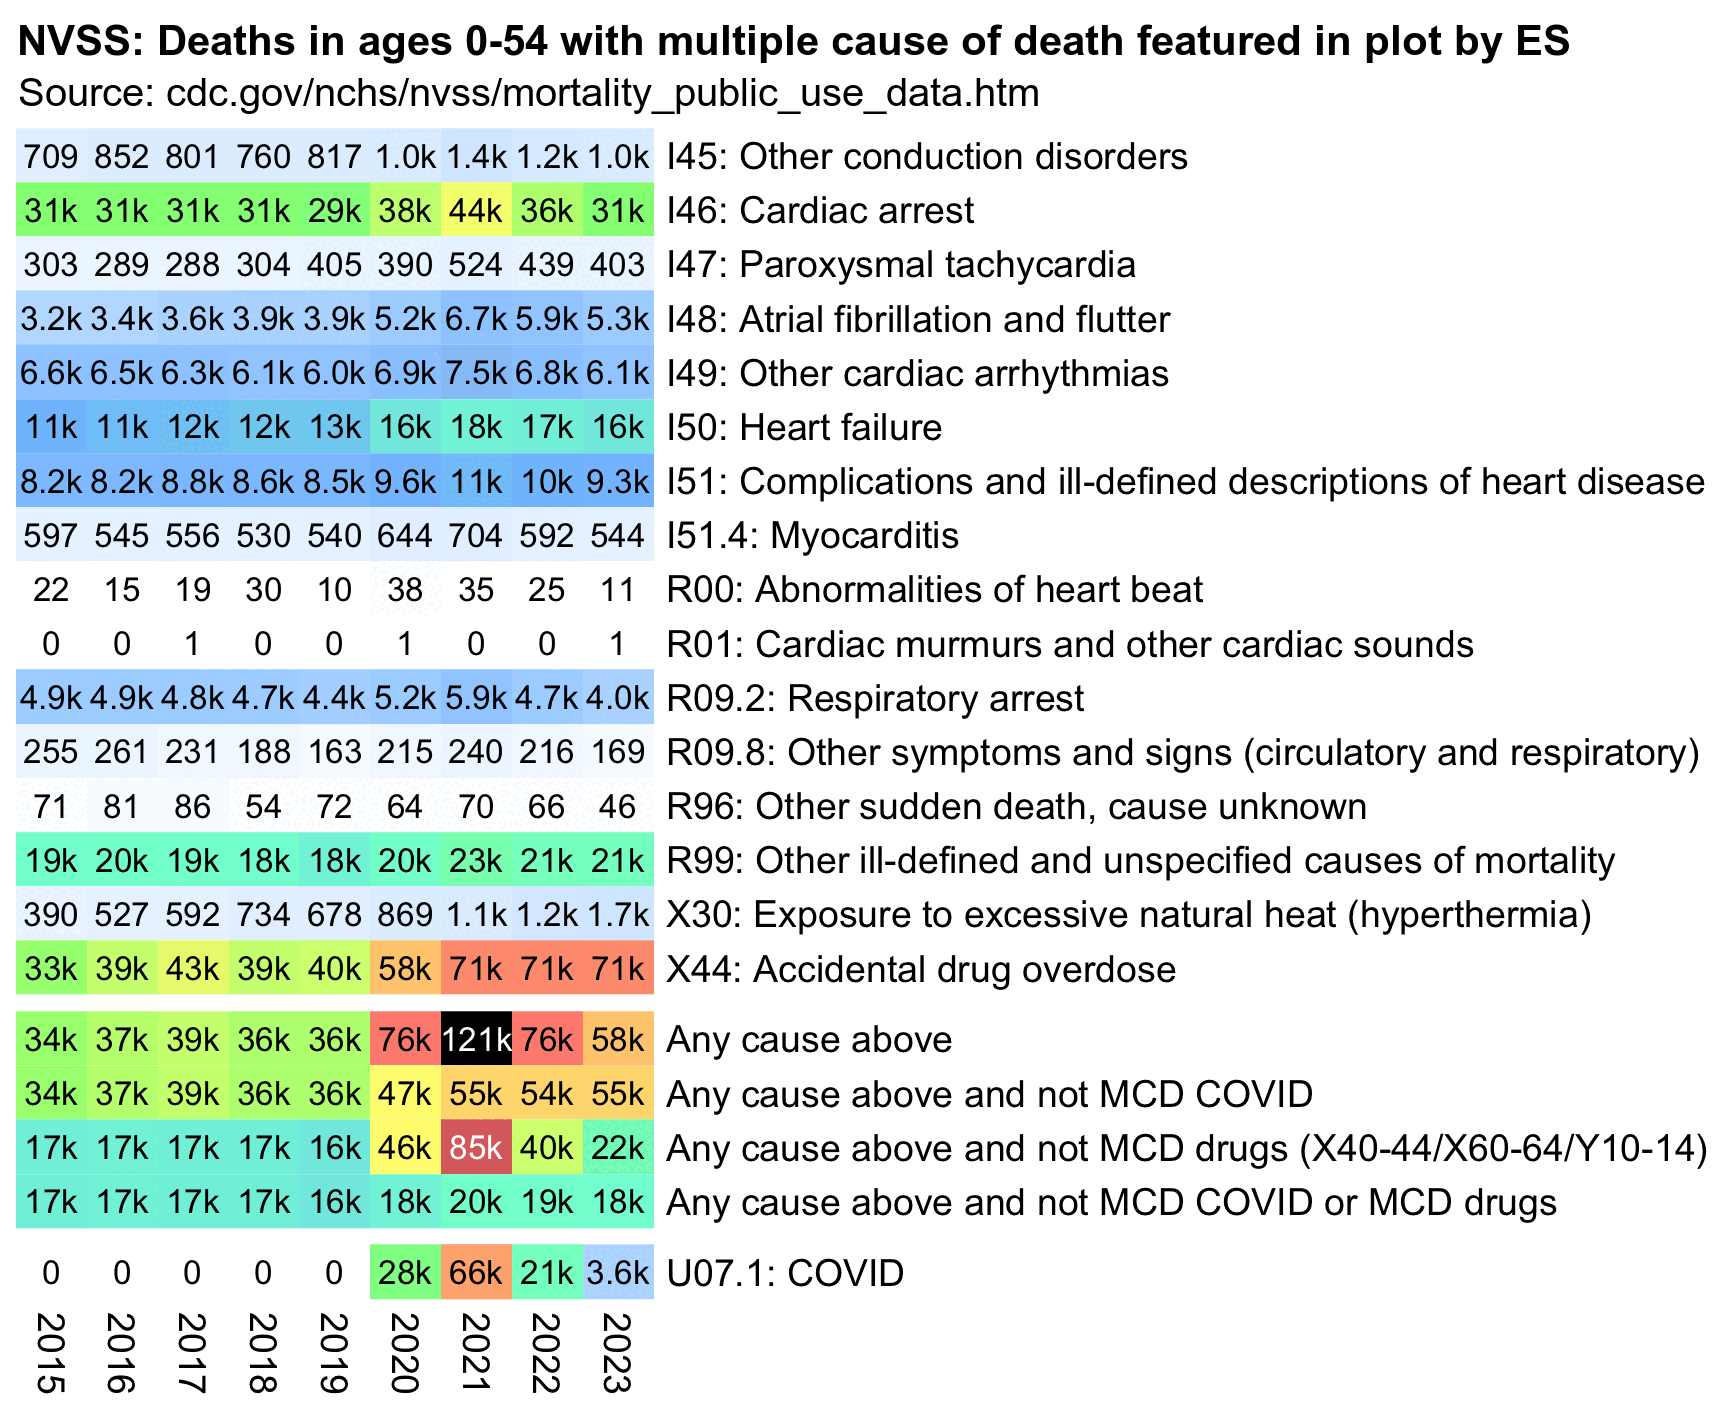
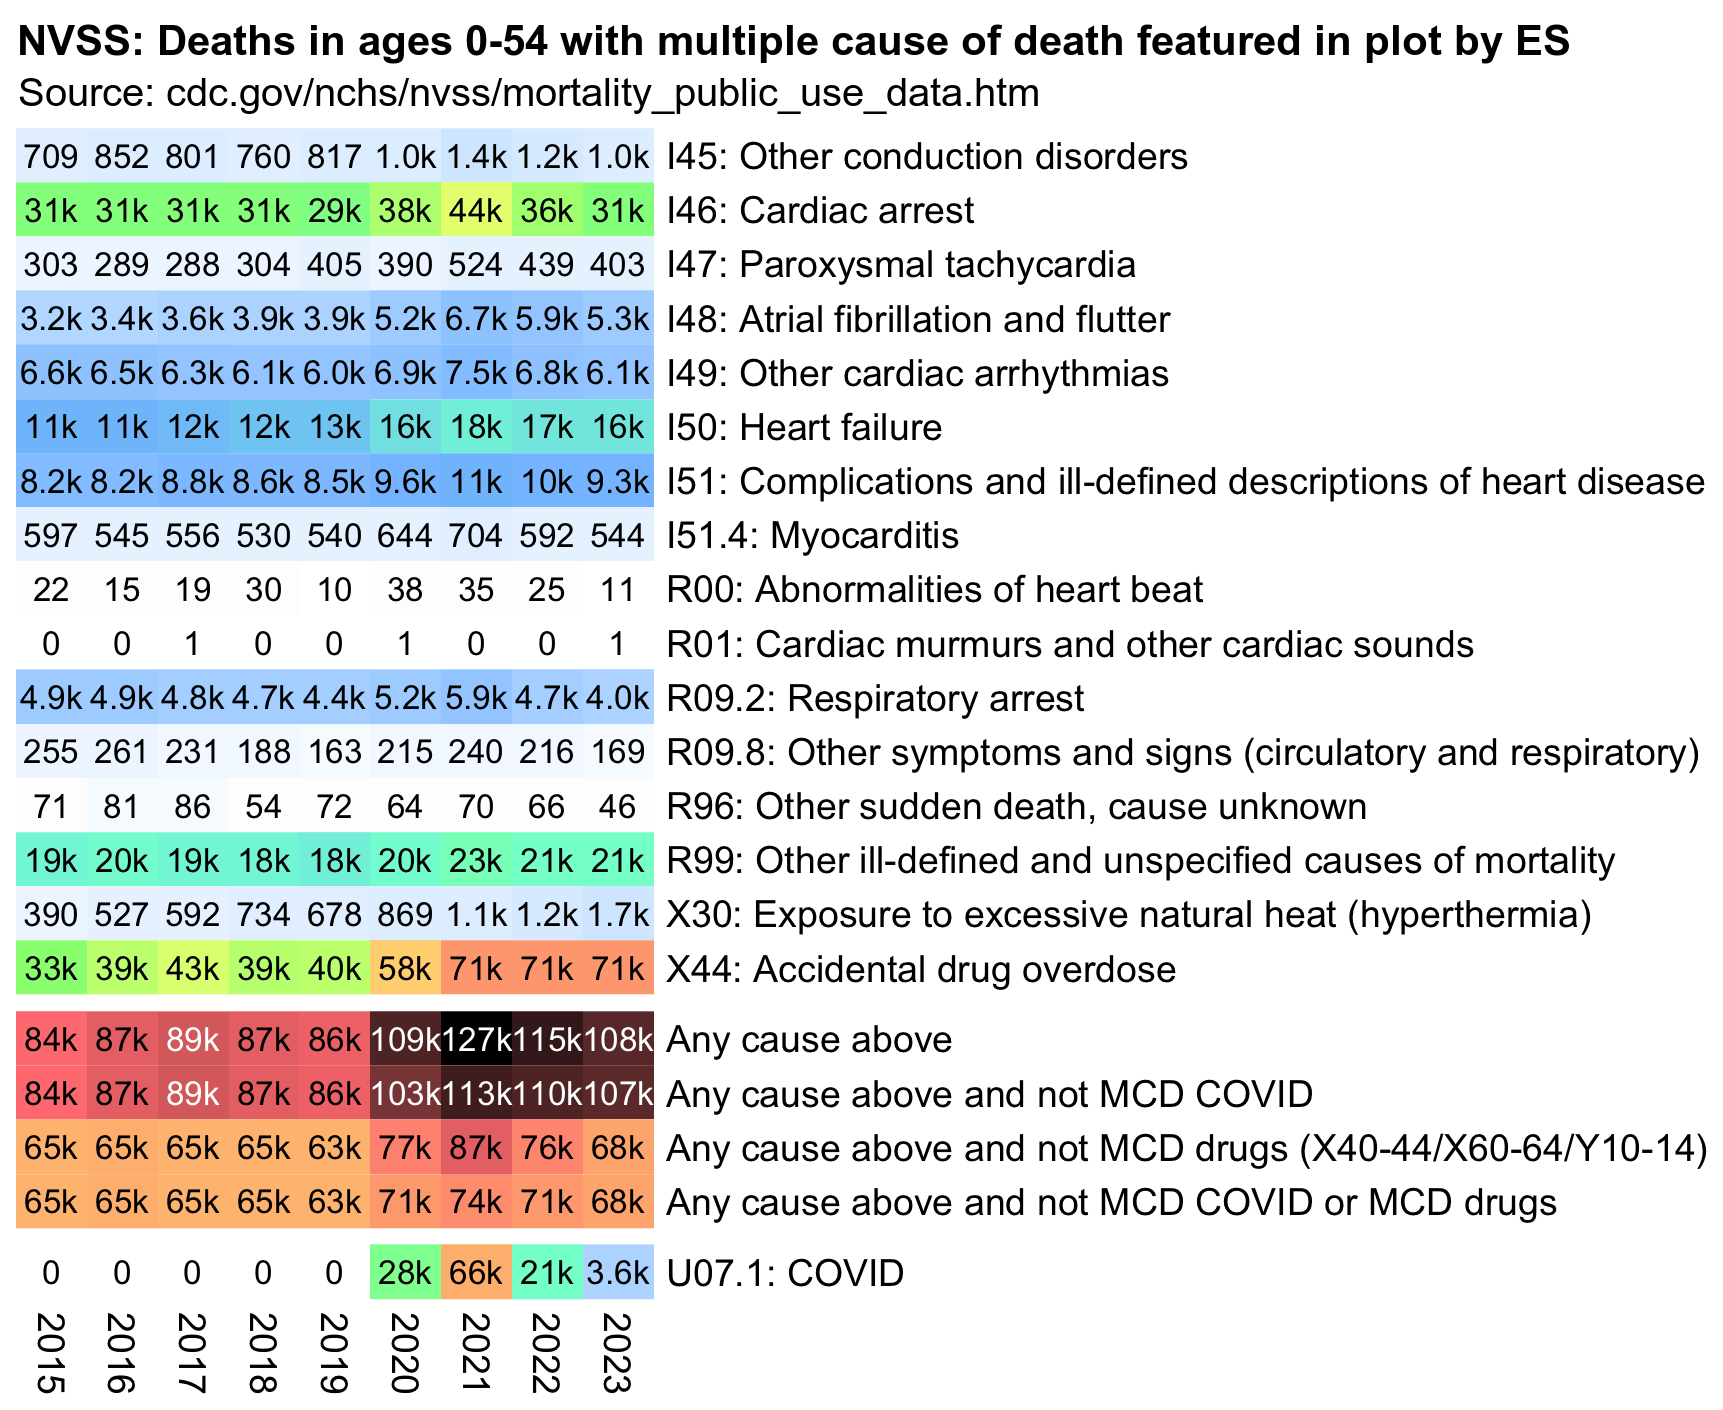
a

Changed region(s): [[0.0, 0.7177, 0.3999, 0.8738]]

diff --git a/ethical.html b/ethical.html
@@ -647,13 +647,13 @@ kimi=\(x){na=is.na(x);x[na]=0;e=floor(log10(ifelse(x==0,1,abs(x))));e2=pmax(e,0)
 vit=do.call(rbind,lapply(2015:2023,\(i)fread(j(i,&quot;.csv.gz&quot;))[age!=9999&amp;or(age&gt;=2000,age&lt;=1054)]))
 l=vit[,.(.I,year,code=unlist(.SD,,F)),.SDcols=patterns(&quot;ucod|enicon_&quot;)][code!=&quot;&quot;]
 
-codes=sub(&quot;\\.&quot;,&quot;&quot;,rbind(pick,pick4)$code)
+codes=paste(sub(&quot;\\.&quot;,&quot;&quot;,rbind(pick,pick4[code!=&quot;U07.1&quot;])$code),collapse=&quot;|&quot;)
 
-any=l[code%in%codes]
-a2=any[,.(dead=length(unique(I)),label=&quot;Any cause above&quot;),year]
-a3=any[!I%in%I[code==&quot;U071&quot;],.(dead=n_distinct(I),label=&quot;Any cause above and not MCD COVID&quot;),year]
-a4=any[!I%in%I[code%like%&quot;X4[0-4]|X6[0-4]|Y1[0-4]&quot;],.(dead=n_distinct(I),label=&quot;Any cause above and not MCD drugs (X40-44/X60-64/Y10-14)&quot;),year]
-a5=any[!I%in%I[code%like%&quot;X4[0-4]|X6[0-4]|Y1[0-4]|U071&quot;],.(dead=n_distinct(I),label=&quot;Any cause above and not MCD COVID or MCD drugs&quot;),year]
+any=l[I%in%l[ua(code,like,codes),I]]
+a2=any[,.(dead=uniqueN(I),label=&quot;Any cause above&quot;),year]
+a3=any[!I%in%I[code==&quot;U071&quot;],.(dead=uniqueN(I),label=&quot;Any cause above and not MCD COVID&quot;),year]
+a4=any[!I%in%I[code%like%&quot;X4[0-4]|X6[0-4]|Y1[0-4]&quot;],.(dead=uniqueN(I),label=&quot;Any cause above and not MCD drugs (X40-44/X60-64/Y10-14)&quot;),year]
+a5=any[!I%in%I[code%like%&quot;X4[0-4]|X6[0-4]|Y1[0-4]|U071&quot;],.(dead=uniqueN(I),label=&quot;Any cause above and not MCD COVID or MCD drugs&quot;),year]
 
 pick=fread(&quot;code;cause
 I45;Other conduction disorders
@@ -676,8 +676,8 @@ R09.2;Respiratory arrest
 R09.8;Other symptoms and signs (circulatory and respiratory)
 U07.1;COVID&quot;)
 
-v=fread(&quot;cat https://sars2.net/f/vital3.csv.xz|xz -dc&quot;)
-v4=fread(&quot;cat https://sars2.net/f/vital.csv.xz|xz -dc&quot;)
+v=fread(&quot;curl -Ls sars2.net/f/vital3.csv.xz|xz -dc&quot;)
+v4=fread(&quot;curl -Ls sars2.net/f/vital.csv.xz|xz -dc&quot;)
 setnames(v4,&quot;cause&quot;,&quot;code&quot;)
 
 a=rbind(v,v4)[year&gt;=2015&amp;age&lt;=54,.(dead=sum(mcd)),,.(year,code)]
